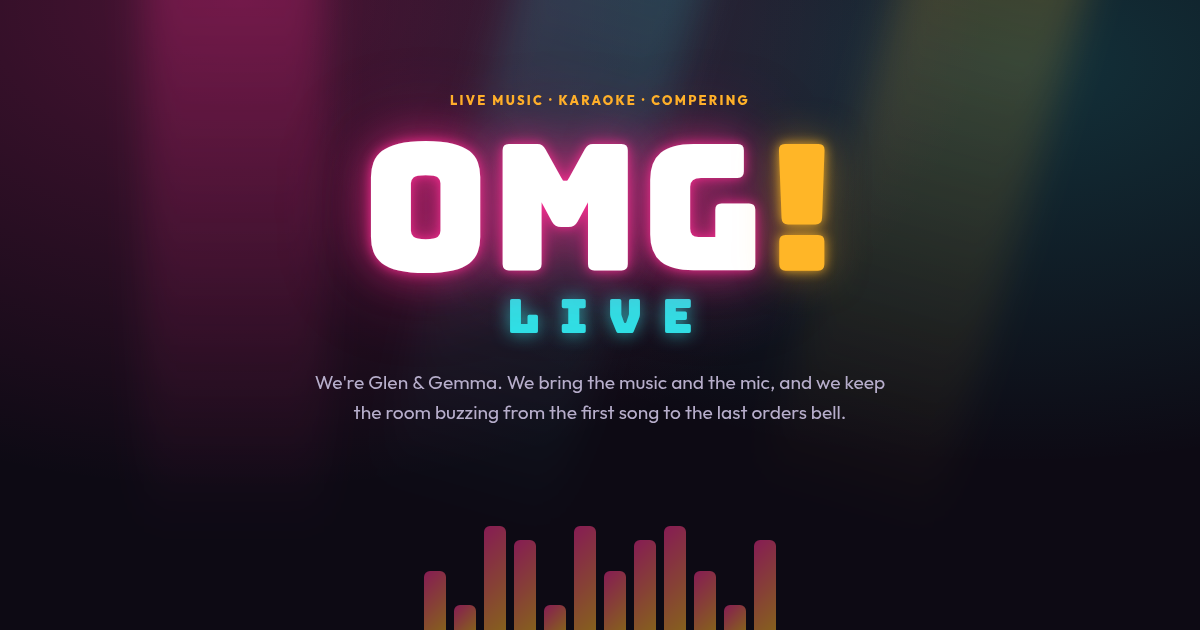
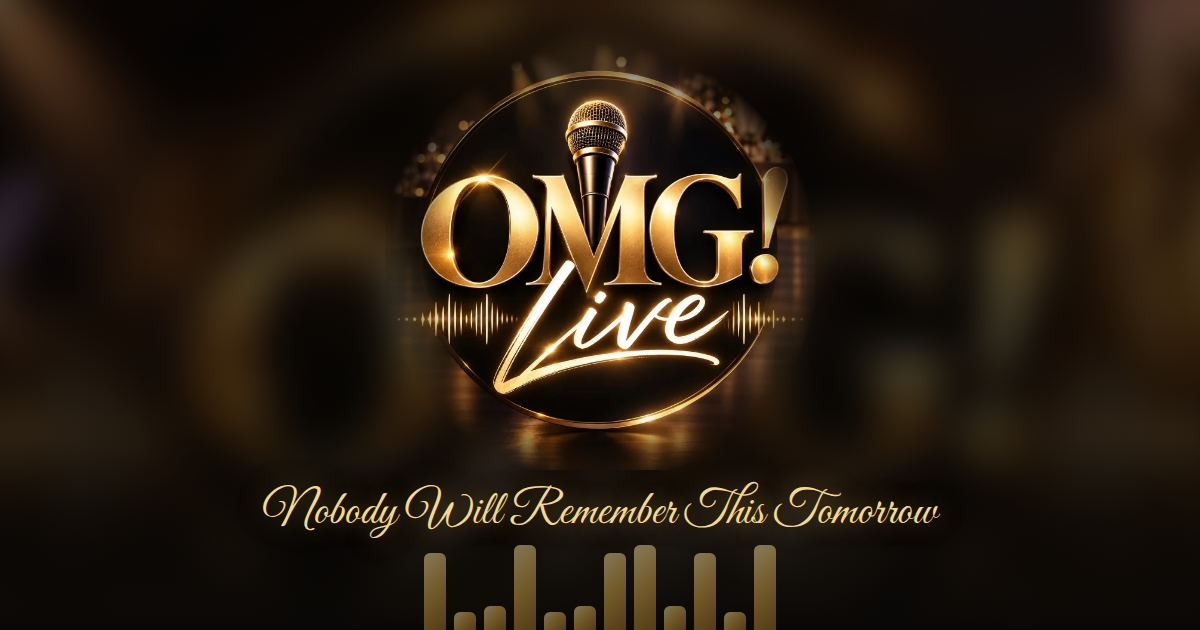
Rebrand to OMG! Live gold and black identity
- Real logo as the hero centrepiece over a blurred banner glow
- Gold/black palette, Cinzel headings and Great Vibes script to match
  the logo lettering
- Logo-based favicon, apple-touch icon and new social share image

Claude-Session: https://claude.ai/code/session_01XZvY8zs2MrRnv2Rwc36K72

diff --git a/styles.css b/styles.css
@@ -1,16 +1,17 @@
 :root {
-  --bg: #0d0a14;
-  --bg-alt: #151022;
-  --surface: #1d1630;
-  --line: #2e2547;
-  --text: #f4f0fb;
-  --muted: #b7aecb;
-  --pink: #ff2e93;
-  --amber: #ffb627;
-  --cyan: #2de2e6;
-  --grad: linear-gradient(135deg, var(--pink), var(--amber));
+  --bg: #0a0806;
+  --bg-alt: #120d08;
+  --surface: #1a140c;
+  --line: #3a2e1a;
+  --text: #f7efe0;
+  --muted: #c4b79d;
+  --gold: #d4a64a;
+  --gold-light: #f3d98b;
+  --gold-deep: #9c6f27;
+  --grad: linear-gradient(135deg, #f7e2a0, #d4a64a 50%, #9c6f27);
   --radius: 18px;
-  --display: "Bungee", "Arial Black", sans-serif;
+  --display: "Cinzel", Georgia, serif;
+  --script: "Great Vibes", cursive;
   --body: "Outfit", system-ui, -apple-system, "Segoe UI", sans-serif;
 }
 
@@ -27,7 +28,7 @@ body {
 }
 img, svg { display: block; max-width: 100%; }
 a { color: inherit; }
-em { font-style: normal; color: var(--pink); }
+em { font-style: normal; color: var(--gold); }
 h1, h2, h3 { line-height: 1.1; margin: 0 0 .5em; }
 
 .wrap { width: min(1120px, 100% - 32px); margin-inline: auto; }
@@ -41,38 +42,40 @@ h1, h2, h3 { line-height: 1.1; margin: 0 0 .5em; }
   border-radius: 999px;
   border: 2px solid transparent;
   background: var(--grad);
-  color: #1a0b14;
+  color: #1a1206;
   font-weight: 800;
   text-decoration: none;
   cursor: pointer;
   font: inherit; font-weight: 800;
   transition: transform .2s, box-shadow .2s;
-  box-shadow: 0 6px 24px -6px rgba(255, 46, 147, .6);
+  box-shadow: 0 6px 24px -6px rgba(212, 166, 74, .6);
 }
-.btn:hover { transform: translateY(-2px); box-shadow: 0 10px 30px -6px rgba(255, 46, 147, .8); }
+.btn:hover { transform: translateY(-2px); box-shadow: 0 10px 30px -6px rgba(212, 166, 74, .8); }
 .btn:focus-visible, a:focus-visible, button:focus-visible, input:focus-visible, select:focus-visible, textarea:focus-visible {
-  outline: 3px solid var(--cyan); outline-offset: 3px;
+  outline: 3px solid var(--gold-light); outline-offset: 3px;
 }
 .btn--ghost { background: transparent; color: var(--text); border-color: var(--line); box-shadow: none; }
-.btn--ghost:hover { border-color: var(--pink); box-shadow: none; }
+.btn--ghost:hover { border-color: var(--gold); box-shadow: none; }
 .btn--small { padding: .5em 1.1em; font-size: .95rem; }
 .btn--full { width: 100%; }
 
 .eyebrow {
   text-transform: uppercase; letter-spacing: .18em;
   font-size: .8rem; font-weight: 800;
-  color: var(--amber); margin: 0 0 .75rem;
+  color: var(--gold-light); margin: 0 0 .75rem;
 }
 
 /* Nav */
 .nav {
   position: sticky; top: 0; z-index: 50;
-  background: rgba(13, 10, 20, .8);
+  background: rgba(10, 8, 6, .85);
   backdrop-filter: blur(12px);
   border-bottom: 1px solid var(--line);
 }
 .nav__inner { display: flex; align-items: center; justify-content: space-between; height: 68px; }
-.brand { display: flex; align-items: center; gap: 10px; text-decoration: none; font-family: var(--display); font-size: 1.25rem; }
+.brand { display: flex; align-items: center; gap: 10px; text-decoration: none; font-family: var(--display); font-weight: 700; font-size: 1.2rem; }
+.brand em { font-family: var(--script); font-weight: 400; font-size: 1.5em; color: var(--gold-light); margin-left: .1em; }
+.brand img { border-radius: 50%; }
 .nav__links { display: flex; align-items: center; gap: 28px; }
 .nav__links a:not(.btn) { text-decoration: none; color: var(--muted); font-weight: 600; }
 .nav__links a:not(.btn):hover { color: var(--text); }
@@ -101,56 +104,37 @@ h1, h2, h3 { line-height: 1.1; margin: 0 0 .5em; }
   min-height: calc(100svh - 68px);
   display: grid; align-items: center;
   padding: 80px 0 140px;
-  background:
-    radial-gradient(ellipse at 20% 0%, rgba(255, 46, 147, .25), transparent 55%),
-    radial-gradient(ellipse at 85% 10%, rgba(45, 226, 230, .18), transparent 50%),
-    var(--bg);
+  background: var(--bg);
+  isolation: isolate;
+}
+.hero::before {
+  content: ""; position: absolute; inset: -40px; z-index: -1;
+  background: url("/assets/banner.webp") center / cover no-repeat;
+  filter: blur(22px) brightness(.55) saturate(1.1);
+}
+.hero::after {
+  content: ""; position: absolute; inset: 0; z-index: -1;
+  background: linear-gradient(to bottom, rgba(10, 8, 6, .2), rgba(10, 8, 6, .5) 60%, var(--bg));
 }
 .hero__content { position: relative; z-index: 2; text-align: center; }
-.hero__title { font-family: var(--display); font-weight: 400; margin: 0 0 1.5rem; }
-.glow {
-  display: block;
-  font-size: clamp(4.5rem, 18vw, 11rem);
-  line-height: .95;
-  color: #fff;
-  text-shadow: 0 0 12px rgba(255, 46, 147, .9), 0 0 40px rgba(255, 46, 147, .6), 0 0 90px rgba(255, 46, 147, .4);
-  animation: flicker 6s infinite;
-}
-.glow em { color: var(--amber); text-shadow: 0 0 12px rgba(255, 182, 39, .9), 0 0 40px rgba(255, 182, 39, .5); }
-.hero__live {
-  display: inline-block;
-  font-size: clamp(1.6rem, 6vw, 3rem);
-  letter-spacing: .4em; padding-left: .4em;
-  color: var(--cyan);
-  text-shadow: 0 0 18px rgba(45, 226, 230, .7);
+.hero__title { margin: 0 0 1rem; }
+.hero__logo {
+  width: min(440px, 82vw); height: auto; margin: 0 auto;
+  -webkit-mask-image: radial-gradient(circle at 50% 52%, #000 52%, transparent 71%);
+  mask-image: radial-gradient(circle at 50% 52%, #000 52%, transparent 71%);
+  filter: drop-shadow(0 0 40px rgba(212, 166, 74, .35));
 }
 .hero__tagline {
-  font-weight: 800; font-size: clamp(1.05rem, 3vw, 1.35rem);
-  color: var(--amber); margin: 0 0 1rem; font-style: italic;
+  font-family: var(--script); font-weight: 400;
+  font-size: clamp(2rem, 6vw, 3rem); line-height: 1.1;
+  color: var(--gold-light); margin: 0 0 1rem;
+  text-shadow: 0 0 24px rgba(212, 166, 74, .5);
 }
-.gigs__recent { color: var(--text) !important; }
 .hero__lede { max-width: 36rem; margin: 0 auto 2rem; color: var(--muted); font-size: 1.2rem; }
 .hero__cta { display: flex; gap: 14px; justify-content: center; flex-wrap: wrap; }
 
-@keyframes flicker {
-  0%, 92%, 100% { opacity: 1; }
-  93% { opacity: .55; } 94% { opacity: 1; } 96% { opacity: .7; } 97% { opacity: 1; }
-}
-
-.hero__lights { position: absolute; inset: 0; pointer-events: none; }
-.beam {
-  position: absolute; top: -20%; width: 180px; height: 140%;
-  background: linear-gradient(to bottom, rgba(255, 255, 255, .12), transparent 75%);
-  filter: blur(18px); transform-origin: top center;
-  animation: sweep 9s ease-in-out infinite alternate;
-}
-.beam--1 { left: 12%; background: linear-gradient(to bottom, rgba(255, 46, 147, .28), transparent 75%); }
-.beam--2 { left: 46%; animation-delay: -3s; background: linear-gradient(to bottom, rgba(45, 226, 230, .2), transparent 75%); }
-.beam--3 { left: 78%; animation-delay: -6s; background: linear-gradient(to bottom, rgba(255, 182, 39, .22), transparent 75%); }
-@keyframes sweep { from { transform: rotate(-18deg); } to { transform: rotate(18deg); } }
-
 .eq {
-  position: absolute; bottom: 0; left: 0; right: 0; height: 110px;
+  position: absolute; bottom: 0; left: 0; right: 0; height: 90px;
   display: flex; align-items: flex-end; justify-content: center; gap: 8px;
   opacity: .5; z-index: 1;
 }
@@ -165,7 +149,7 @@ h1, h2, h3 { line-height: 1.1; margin: 0 0 .5em; }
 @keyframes bounce { from { height: 12%; } to { height: 95%; } }
 
 /* Marquee */
-.marquee { overflow: hidden; background: var(--grad); color: #1a0b14; padding: 14px 0; font-weight: 800; text-transform: uppercase; letter-spacing: .08em; }
+.marquee { overflow: hidden; background: var(--grad); color: #1a1206; padding: 14px 0; font-weight: 800; text-transform: uppercase; letter-spacing: .08em; }
 .marquee__track { display: flex; width: max-content; animation: scroll 38s linear infinite; }
 .marquee__track span { white-space: nowrap; padding-right: 1rem; }
 @keyframes scroll { to { transform: translateX(-50%); } }
@@ -173,21 +157,21 @@ h1, h2, h3 { line-height: 1.1; margin: 0 0 .5em; }
 /* Sections */
 .section { padding: clamp(64px, 10vw, 120px) 0; }
 .section--alt { background: var(--bg-alt); border-block: 1px solid var(--line); }
-.section__title { font-family: var(--display); font-weight: 400; font-size: clamp(1.9rem, 5vw, 3rem); max-width: 22ch; }
+.section__title { font-family: var(--display); font-weight: 700; letter-spacing: .01em; font-size: clamp(1.9rem, 5vw, 3rem); max-width: 22ch; }
 
 .cards { display: grid; grid-template-columns: repeat(auto-fit, minmax(300px, 1fr)); gap: 22px; margin-top: 2.5rem; }
 .card {
   background: var(--surface); border: 1px solid var(--line); border-radius: var(--radius);
   padding: 30px; transition: transform .25s, border-color .25s;
 }
-.card:hover { transform: translateY(-6px); border-color: var(--pink); }
+.card:hover { transform: translateY(-6px); border-color: var(--gold); }
 .card h3 { font-size: 1.4rem; }
 .card p { color: var(--muted); margin: 0; }
 .card__icon {
   width: 56px; height: 56px; border-radius: 16px; display: grid; place-items: center;
-  background: rgba(255, 46, 147, .12); margin-bottom: 20px;
+  background: rgba(212, 166, 74, .12); margin-bottom: 20px;
 }
-.card__icon svg { width: 28px; height: 28px; fill: none; stroke: var(--pink); stroke-width: 2; stroke-linecap: round; stroke-linejoin: round; }
+.card__icon svg { width: 28px; height: 28px; fill: none; stroke: var(--gold); stroke-width: 2; stroke-linecap: round; stroke-linejoin: round; }
 
 /* About */
 .about { display: grid; grid-template-columns: 1.2fr 1fr; gap: 56px; align-items: center; }
@@ -201,11 +185,11 @@ h1, h2, h3 { line-height: 1.1; margin: 0 0 .5em; }
 .duo__avatar {
   width: 96px; height: 96px; margin: 0 auto 16px; border-radius: 50%;
   display: grid; place-items: center;
-  font-family: var(--display); font-size: 2.4rem; color: #1a0b14;
+  font-family: var(--display); font-weight: 700; font-size: 2.4rem; color: #1a1206;
   background: var(--grad);
-  box-shadow: 0 0 30px rgba(255, 46, 147, .45);
+  box-shadow: 0 0 30px rgba(212, 166, 74, .45);
 }
-.duo__card--alt .duo__avatar { background: linear-gradient(135deg, var(--cyan), var(--pink)); box-shadow: 0 0 30px rgba(45, 226, 230, .4); }
+.duo__card--alt .duo__avatar { background: linear-gradient(135deg, #fff3cf, var(--gold-light) 40%, var(--gold)); box-shadow: 0 0 30px rgba(243, 217, 139, .4); }
 .duo__card h3 { font-size: 1.5rem; margin-bottom: .2em; }
 .duo__card p { color: var(--muted); margin: 0; font-size: .95rem; }
 @media (max-width: 860px) {
@@ -220,9 +204,9 @@ h1, h2, h3 { line-height: 1.1; margin: 0 0 .5em; }
   border: 1px solid var(--line); background: var(--surface);
   font-weight: 600;
 }
-.tags li:nth-child(3n+1) { border-color: rgba(255, 46, 147, .5); }
-.tags li:nth-child(3n+2) { border-color: rgba(255, 182, 39, .5); }
-.tags li:nth-child(3n) { border-color: rgba(45, 226, 230, .5); }
+.tags li:nth-child(3n+1) { border-color: rgba(212, 166, 74, .5); }
+.tags li:nth-child(3n+2) { border-color: rgba(243, 217, 139, .5); }
+.tags li:nth-child(3n) { border-color: rgba(243, 217, 139, .5); }
 
 /* Gigs */
 .gigs { display: grid; grid-template-columns: 1.4fr 1fr; gap: 40px; align-items: center; }
@@ -238,7 +222,7 @@ h1, h2, h3 { line-height: 1.1; margin: 0 0 .5em; }
 @media (max-width: 760px) { .gigs { grid-template-columns: 1fr; } }
 
 /* Booking */
-.book { background: radial-gradient(ellipse at 100% 100%, rgba(255, 46, 147, .18), transparent 60%), var(--bg); }
+.book { background: radial-gradient(ellipse at 100% 100%, rgba(212, 166, 74, .18), transparent 60%), var(--bg); }
 .book__inner { display: grid; grid-template-columns: 1fr 1.2fr; gap: 56px; align-items: start; }
 .book__intro p { color: var(--muted); }
 .book__intro .btn { margin-top: .5rem; }
@@ -257,12 +241,12 @@ h1, h2, h3 { line-height: 1.1; margin: 0 0 .5em; }
   border: 1px solid var(--line); border-radius: 12px;
   font: inherit; font-weight: 400;
 }
-.form input:focus, .form select:focus, .form textarea:focus { border-color: var(--pink); }
+.form input:focus, .form select:focus, .form textarea:focus { border-color: var(--gold); }
 .form input[type="date"] { color-scheme: dark; }
 .checks { border: 0; padding: 0; margin: 0; display: flex; flex-wrap: wrap; gap: 10px 22px; }
 .checks legend { font-weight: 600; font-size: .95rem; margin-bottom: 8px; padding: 0; }
 .checks label { display: flex; align-items: center; gap: 8px; font-weight: 400; cursor: pointer; }
-.checks input { width: 18px; height: 18px; accent-color: var(--pink); }
+.checks input { width: 18px; height: 18px; accent-color: var(--gold); }
 .form__note { margin: 0; min-height: 1.4em; color: var(--muted); font-size: .95rem; }
 .form__note.error { color: #ff7a9c; }
 .form [aria-invalid="true"] { border-color: #ff7a9c !important; }

diff --git a/index.html b/index.html
@@ -7,8 +7,9 @@
   <title>OMG! Live | Live Music, Karaoke &amp; Compering</title>
   <meta name="description" content="OMG! Live is Glen &amp; Gemma: live music, karaoke and compering from Blackpool. Pubs, clubs, parties, weddings and events: a night nobody will remember tomorrow.">
   <link rel="canonical" href="https://omglive.co.uk/">
-  <link rel="icon" href="/favicon.svg" type="image/svg+xml">
-  <meta name="theme-color" content="#0d0a14">
+  <link rel="icon" href="/assets/favicon-64.png" type="image/png">
+  <link rel="apple-touch-icon" href="/apple-touch-icon.png">
+  <meta name="theme-color" content="#0a0806">
 
   <meta property="og:type" content="website">
   <meta property="og:url" content="https://omglive.co.uk/">
@@ -19,7 +20,8 @@
 
   <link rel="preconnect" href="https://fonts.googleapis.com">
   <link rel="preconnect" href="https://fonts.gstatic.com" crossorigin>
-  <link href="https://fonts.googleapis.com/css2?family=Bungee&family=Outfit:wght@400;600;800&display=swap" rel="stylesheet">
+  <link href="https://fonts.googleapis.com/css2?family=Cinzel:wght@600;700;800&family=Great+Vibes&family=Outfit:wght@400;600;800&display=swap" rel="stylesheet">
+  <link rel="preload" as="image" href="/assets/logo.webp">
   <link rel="stylesheet" href="/styles.css">
 
   <script type="application/ld+json">
@@ -28,6 +30,7 @@
     "@type": "PerformingGroup",
     "name": "OMG! Live",
     "url": "https://omglive.co.uk/",
+    "logo": "https://omglive.co.uk/assets/logo.webp",
     "description": "Live music, karaoke and compering by Glen & Gemma.",
     "slogan": "Nobody Will Remember This Tomorrow",
     "location": {"@type": "Place", "address": {"@type": "PostalAddress", "addressLocality": "Blackpool", "addressCountry": "GB"}},
@@ -42,8 +45,8 @@
   <header class="nav" id="top">
     <div class="wrap nav__inner">
       <a href="#top" class="brand" aria-label="OMG! Live home">
-        <img src="/assets/logo.svg" alt="" width="36" height="36">
-        <span>OMG<em>!</em> Live</span>
+        <img src="/assets/favicon-64.png" alt="" width="36" height="36">
+        <span>OMG! <em>Live</em></span>
       </a>
       <button class="nav__toggle" aria-expanded="false" aria-controls="nav-links" aria-label="Open menu">
         <span></span><span></span><span></span>
@@ -61,15 +64,9 @@
   <main id="main">
     <!-- HERO -->
     <section class="hero">
-      <div class="hero__lights" aria-hidden="true">
-        <span class="beam beam--1"></span><span class="beam beam--2"></span><span class="beam beam--3"></span>
-      </div>
       <div class="wrap hero__content">
-        <p class="eyebrow">Live Music · Karaoke · Compering</p>
-        <h1 class="hero__title">
-          <span class="glow">OMG<em>!</em></span>
-          <span class="hero__live">Live</span>
-        </h1>
+        <p class="eyebrow">Weddings · Karaoke · Live Music · Hosting</p>
+        <h1 class="hero__title"><img class="hero__logo" src="/assets/logo.webp" alt="OMG! Live" width="720" height="720"></h1>
         <p class="hero__tagline">Nobody Will Remember This Tomorrow</p>
         <p class="hero__lede">We're Glen &amp; Gemma, two vocalists from Blackpool. We bring the music and the mic, and we keep the room buzzing from the first song to the last orders bell.</p>
         <div class="hero__cta">
@@ -251,8 +248,8 @@
   <footer class="footer">
     <div class="wrap footer__inner">
       <a href="#top" class="brand">
-        <img src="/assets/logo.svg" alt="" width="28" height="28">
-        <span>OMG<em>!</em> Live</span>
+        <img src="/assets/favicon-64.png" alt="" width="28" height="28">
+        <span>OMG! <em>Live</em></span>
       </a>
       <p>Live Music · Karaoke · Compering · Blackpool</p>
       <p><a href="https://www.facebook.com/OMGLiveMusic" target="_blank" rel="noopener">Facebook</a></p>
